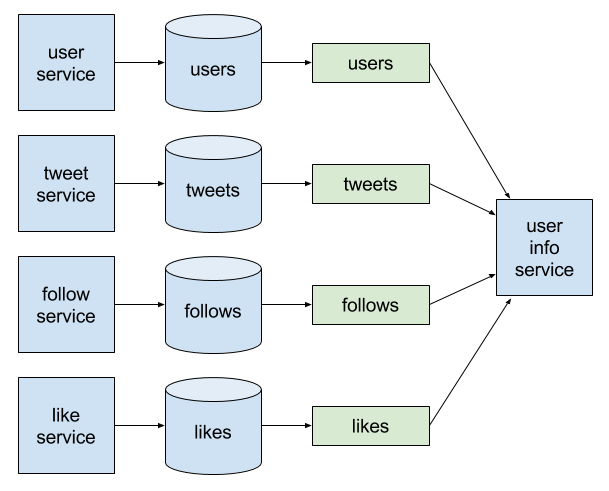
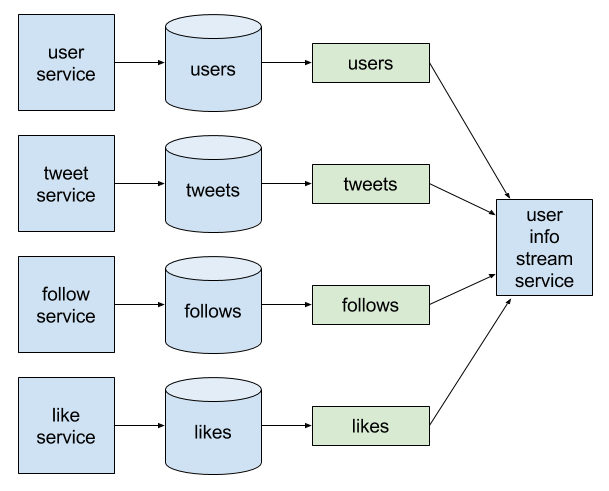
changes

Changed region(s): [[0.8424, 0.4277, 0.9672, 0.611]]

diff --git a/README.md b/README.md
@@ -100,7 +100,7 @@ These problems would be solved if we could just update the materialized views in
 
 ![](img/question.png)
 
-If we have a mechanism to send inserted and updated rows in those tables to Kafka topics, then we can consume those data changes and update the cached materialized views. 
+If we have a mechanism to send inserted and updated rows in those tables to Kafka topics, then we can consume those data changes and update the cached materialized views. This will split updating the materialized views and querying the cache into separate, decoupled services.
 
 ## Sending Data Changes to Kafka Topics
 
